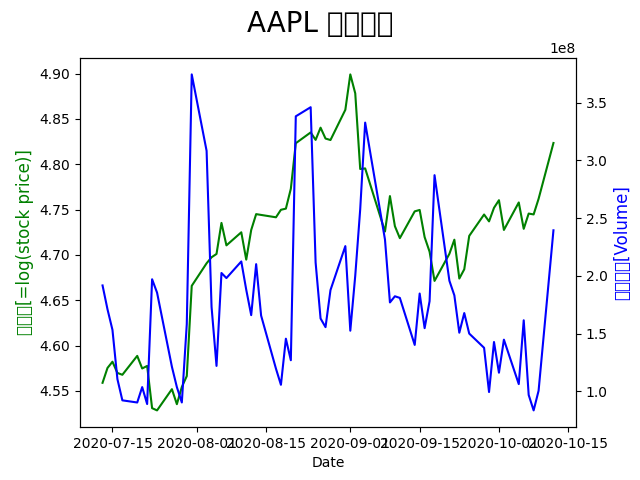
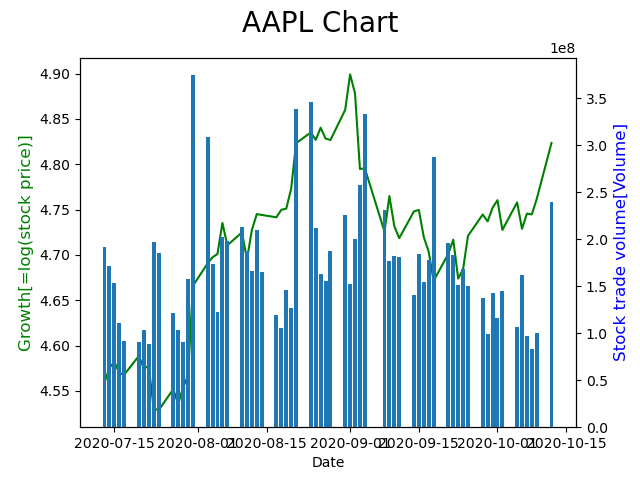
fix some bugs

diff --git a/stock_index/src/notion_upload_stock.py b/stock_index/src/notion_upload_stock.py
@@ -12,6 +12,7 @@ from notion.block import HeaderBlock
 from notion.block import SubheaderBlock
 from notion.block import SubsubheaderBlock
 from notion.block import PageBlock
+from notion.block import BookmarkBlock
 import time
 
 # main definition
@@ -32,48 +33,76 @@ if __name__ == "__main__":
 	
 	##### page contents
 	child_id = [c.id for c in page.children][-1]
-
 	child_page = client.get_block(child_id)
-
 	stocks = ['AAPL', 'GOOGL', 'MA', 'TSM']
+
+	url1 = ['naver.com', 'www.naver.com', 'https://www.naver.com', 'https://www.naver.com']
+	url2 = ['https://www.naver.com', 'https://www.naver.com', 'https://www.naver.com', 'https://www.naver.com']
+	url3 = ['https://www.naver.com', 'https://www.naver.com', 'https://www.naver.com', 'https://www.naver.com']
+
+	url_df = pd.DataFrame({'stock_name': stocks, 'url1': url1, 'url2': url2, 'url3': url3})
 
 	# page insert start...
 	for stock in stocks:
 		print(stock)
-		
+
 		tbl_name = stock + '_stats.txt'
 		
 		# 1. read & paste stat_df
 		stat_df = pd.read_csv(save_path + stock + "_stats.txt", sep = "|")
 		stat_value = stat_df.stats.astype(str).values
-		child_page.children.add_new(HeaderBlock, title = stock + ' ' + now_f)
 		
-		child_page.children.add_new(SubheaderBlock, title = "sector")
-		child_page.children.add_new(TextBlock, title = '섹터: ' + stat_value[0])
+		child_page.children.add_new(PageBlock, title=stock)
+
+		grand_child_id = [c.id for c in child_page.children][-1]
+
+		grand_child_page = client.get_block(grand_child_id)
+
+		grand_child_page.children.add_new(HeaderBlock, title = stock + ' ' + now_f)
 		
-		child_page.children.add_new(SubheaderBlock, title = "시가총액")
+		grand_child_page.children.add_new(SubheaderBlock, title = "sector")
+		grand_child_page.children.add_new(TextBlock, title = '섹터: ' + stat_value[0])
+		
+		grand_child_page.children.add_new(SubheaderBlock, title = "시가총액")
 		
 		market_cap = str(round(int(stat_value[1])/100000000, 1))
 		
-		child_page.children.add_new(TextBlock, title = '시가총액: ' + market_cap + "(단위: 억$)")
+		grand_child_page.children.add_new(TextBlock, title = '시가총액: ' + market_cap + "(단위: 억$)")
 		
-		child_page.children.add_new(SubheaderBlock, title = "배당률")
-		child_page.children.add_new(TextBlock, title = '배당률: ' + stat_value[2])
+		grand_child_page.children.add_new(SubheaderBlock, title = "배당률")
+		grand_child_page.children.add_new(TextBlock, title = '배당률: ' + stat_value[2])
 		
-		child_page.children.add_new(SubheaderBlock, title = "PER")
-		child_page.children.add_new(TextBlock, title = 'PER: ' + stat_value[3])
+		grand_child_page.children.add_new(SubheaderBlock, title = "PER")
+		grand_child_page.children.add_new(TextBlock, title = 'PER: ' + stat_value[3])
 		
-		child_page.children.add_new(SubheaderBlock, title = "EPS")
-		child_page.children.add_new(TextBlock, title = 'EPS: ' + stat_value[4])
+		grand_child_page.children.add_new(SubheaderBlock, title = "EPS")
+		grand_child_page.children.add_new(TextBlock, title = 'EPS: ' + stat_value[4])
 		
-		child_page.children.add_new(SubheaderBlock, title = "Stock Price(종가)")
-		child_page.children.add_new(TextBlock, title = 'Stock Price: ' + stat_value[5])
+		grand_child_page.children.add_new(SubheaderBlock, title = "ROE")
+		grand_child_page.children.add_new(TextBlock, title = 'ROE: ' + stat_value[6])
+
+		grand_child_page.children.add_new(SubheaderBlock, title = "Stock Price(종가)")
+		grand_child_page.children.add_new(TextBlock, title = 'Stock Price: ' + stat_value[5])
 		
-		child_page.children.add_new(SubheaderBlock, title = "Target Price(적정주가)")
-		child_page.children.add_new(TextBlock, title = 'Target Price: ' + stat_value[6])
+		grand_child_page.children.add_new(SubheaderBlock, title = "Target Price(적정주가)")
+		grand_child_page.children.add_new(TextBlock, title = 'Target Price: ' + stat_value[7])
 
 		# 2. add image
-		stock_image = child_page.children.add_new(ImageBlock, width=650)
+		stock_image = grand_child_page.children.add_new(ImageBlock, width=650)
 		stock_image.upload_file(save_path + stock + "_analysis.png")
+
+		# 3. 유관 페이지 url
+		url1 = url_df.loc[url_df.stock_name == stock].url1
+		url2 = url_df.loc[url_df.stock_name == stock].url2
+		url3 = url_df.loc[url_df.stock_name == stock].url3
 		
+		grand_child_page.children.add_new(SubheaderBlock, title = "URL1")
+		grand_child_page.children.add_new(BookmarkBlock, link = url1)
+
+		grand_child_page.children.add_new(SubheaderBlock, title = "URL2")
+		grand_child_page.children.add_new(BookmarkBlock, link = url2)
+
+		grand_child_page.children.add_new(SubheaderBlock, title = "URL3")
+		grand_child_page.children.add_new(BookmarkBlock, link = url3)
+
 	print("UPLOADED! " + now_f)

diff --git a/stock_index/src/stock_data.py b/stock_index/src/stock_data.py
@@ -32,6 +32,8 @@ def draw_analysis_plot(stock_name, start_date, end_date,
 
     fig, ax1 = plt.subplots()
     plt.suptitle('ggplot style')
+    plt.xticks(rotation=45)
+
     ax2 = ax1.twinx()
 
     data = yf.download(stock_name, start_date, end_date)
@@ -41,7 +43,7 @@ def draw_analysis_plot(stock_name, start_date, end_date,
     y2 = data.Volume
 
     ax1.plot(x, y1, 'g-')
-    ax2.plot(x, y2, 'b-')
+    ax2.bar(x, y2)
 
     fig.suptitle(stock_name + ' Chart', fontsize = 20)
 
@@ -97,8 +99,8 @@ def get_stats(stock_name, save_path, tbl_name, plot_name):
 
 	target_price = eps * roe_num
 	
-	stats = [sector, cap, dividends, per, eps, close_price, target_price]
-	lis = ['sector', '시가총액', '배당률', 'PER', 'EPS', '종가', '적정주가']
+	stats = [sector, cap, dividends, per, eps, close_price, roe_num, target_price]
+	lis = ['sector', '시가총액', '배당률', 'PER', 'EPS', '종가', 'ROE', '적정주가']
 
 	stat_df = pd.DataFrame({'label': lis, 'stats': stats})
 	stat_df.to_csv( save_path + tbl_name, sep = "|", index = False)

diff --git a/stock_index/src/check_and_install_packages.py b/stock_index/src/check_and_install_packages.py
@@ -1,0 +1,18 @@
+#!/usr/bin/python
+
+import pip
+
+def import_or_install(package):
+    try:
+        __import__(package)
+    except ImportError:
+        pip.main(['install', package])       
+
+
+# main definition
+if __name__ == "__main__":
+	packages = ['yfinance', 'pandas', 'requests', 're', 'numpy', 'matplotlib', 'PyMuPDF', 'notion', 'bs4', 'datetime', 'dateutil']
+
+	for p in packages:
+		print(p)
+		import_or_install(p)
